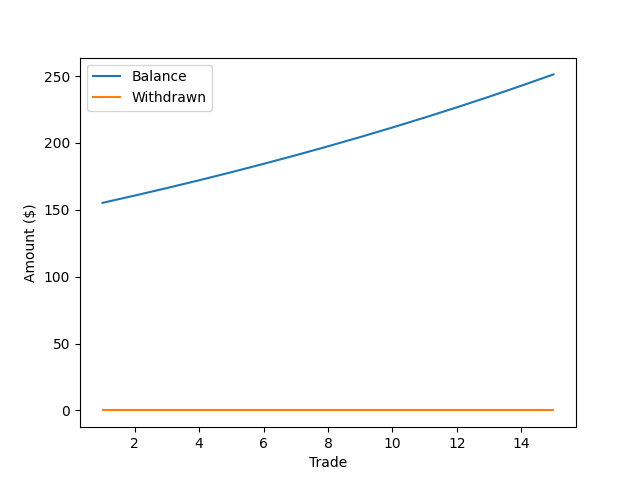
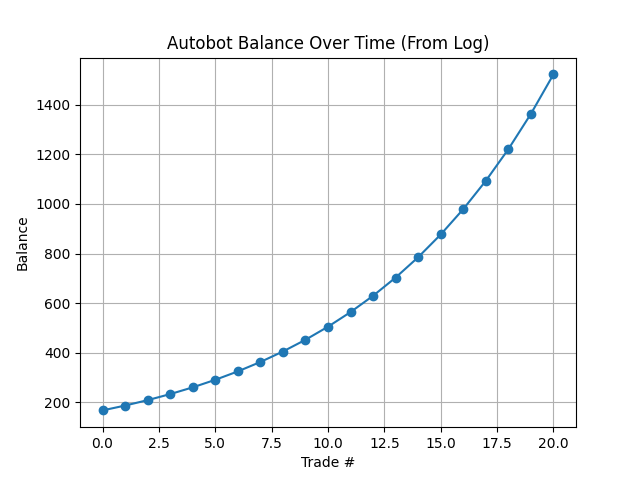
add all

diff --git a/log_chart_analyzer.py b/log_chart_analyzer.py
@@ -1,0 +1,75 @@
+# log_chart_analyzer.py
+
+import pandas as pd
+import matplotlib.pyplot as plt
+import json
+import requests
+import os
+
+# Load Telegram credentials from JSON
+with open("telegram_config.json", "r") as f:
+    config = json.load(f)
+    TELEGRAM_BOT_TOKEN = config["bot_token"]
+    TELEGRAM_CHAT_ID = config["chat_id"]
+
+# Constants
+LOG_FILE = "logs/autobot_log.csv"
+CHART_FILE = "logs/autobot_chart.png"
+DRAW_THRESHOLD = 0.25
+
+def send_telegram_photo(photo_path, caption="📊 Trade Summary"):
+    url = f"https://api.telegram.org/bot{TELEGRAM_BOT_TOKEN}/sendPhoto"
+    with open(photo_path, 'rb') as photo:
+        requests.post(url, data={"chat_id": TELEGRAM_CHAT_ID, "caption": caption}, files={"photo": photo})
+
+def check_ai_warnings(balances, initial_balance):
+    warnings = []
+
+    # 1. Profit drop check
+    if len(balances) >= 2 and balances[-1] < balances[-2]:
+        warnings.append("⚠ Profit dropped after last trade.")
+
+    # 2. Drawdown check
+    peak = max(balances)
+    trough = min(balances)
+    drawdown = (peak - trough) / peak
+    if drawdown > DRAW_THRESHOLD:
+        warnings.append(f"⚠ Drawdown exceeds 25%: {drawdown:.2%}")
+
+    # 3. Unrealistic compound growth
+    growth = balances[-1] / initial_balance
+    if growth > 10 and len(balances) < 10:
+        warnings.append(f"⚠ Unrealistic growth: {growth:.2f}x in {len(balances)} trades.")
+
+    return warnings
+
+def analyze_log():
+    if not os.path.exists(LOG_FILE):
+        print("❌ Log file not found:", LOG_FILE)
+        return
+
+    df = pd.read_csv(LOG_FILE)
+    balances = df["Balance"].tolist()
+    initial_balance = balances[0] if balances else 1000
+
+    # Plot the balance chart
+    plt.figure()
+    plt.plot(balances, marker='o')
+    plt.title("Autobot Balance Over Time (From Log)")
+    plt.xlabel("Trade #")
+    plt.ylabel("Balance")
+    plt.grid(True)
+    plt.savefig(CHART_FILE)
+    plt.close()
+
+    # AI analysis
+    warnings = check_ai_warnings(balances, initial_balance)
+    caption = "📊 Autobot log analysis complete.\n\n"
+    caption += "\n".join(warnings) if warnings else "✅ No warnings. All looks good."
+
+    # Send to Telegram
+    send_telegram_photo(CHART_FILE, caption=caption)
+    print("✅ Chart sent to Telegram.")
+
+if __name__ == "__main__":
+    analyze_log()

diff --git a/autobot.py b/autobot.py
@@ -3,7 +3,12 @@
 import matplotlib.pyplot as plt
 import json
 import requests
-from telegram_config import TELEGRAM_BOT_TOKEN, TELEGRAM_CHAT_ID
+
+# ✅ Load from telegram_config.json
+with open("telegram_config.json", "r") as f:
+    config = json.load(f)
+    TELEGRAM_BOT_TOKEN = config["bot_token"]
+    TELEGRAM_CHAT_ID = config["chat_id"]
 
 initial_balance = 1000
 balance = initial_balance
@@ -21,18 +26,15 @@ def check_ai_warnings(balance_log):
     if len(balance_log) < 2:
         return warnings
 
-    # 1. Profit drop check
     if balance_log[-1] < balance_log[-2]:
         warnings.append("⚠ Profit dropped after last trade.")
 
-    # 2. Drawdown check
     peak = max(balance_log)
     trough = min(balance_log)
     drawdown = (peak - trough) / peak
     if drawdown > drawdown_threshold:
         warnings.append(f"⚠ Drawdown exceeds 25%: {drawdown:.2%}")
 
-    # 3. Unrealistic compound growth check
     growth = balance_log[-1] / initial_balance
     if growth > 10 and len(balance_log) < 10:
         warnings.append(f"⚠ Unrealistic growth detected: {growth:.2f}x in {len(balance_log)} trades.")
@@ -47,7 +49,6 @@ def simulate_trades(trade_returns):
         balance_log.append(balance)
         profit_log.append(profit)
 
-    # Plot the chart
     plt.figure()
     plt.plot(balance_log, marker='o')
     plt.title("Autobot Balance Over Time")
@@ -57,14 +58,11 @@ def simulate_trades(trade_returns):
     plt.savefig("autobot_chart.png")
     plt.close()
 
-    # AI warning system
     warnings = check_ai_warnings(balance_log)
     warning_text = "\n".join(warnings) if warnings else "✅ No warnings. All looks good."
 
-    # Send chart and summary to Telegram
     send_telegram_photo("autobot_chart.png", caption=f"📊 Autobot session complete.\n\n{warning_text}")
 
 if __name__ == "__main__":
-    # Simulated trade returns (as % gain/loss per trade)
     trades = [0.05, 0.03, -0.02, 0.04, -0.15, 0.1, 0.07, 0.02]
     simulate_trades(trades)
